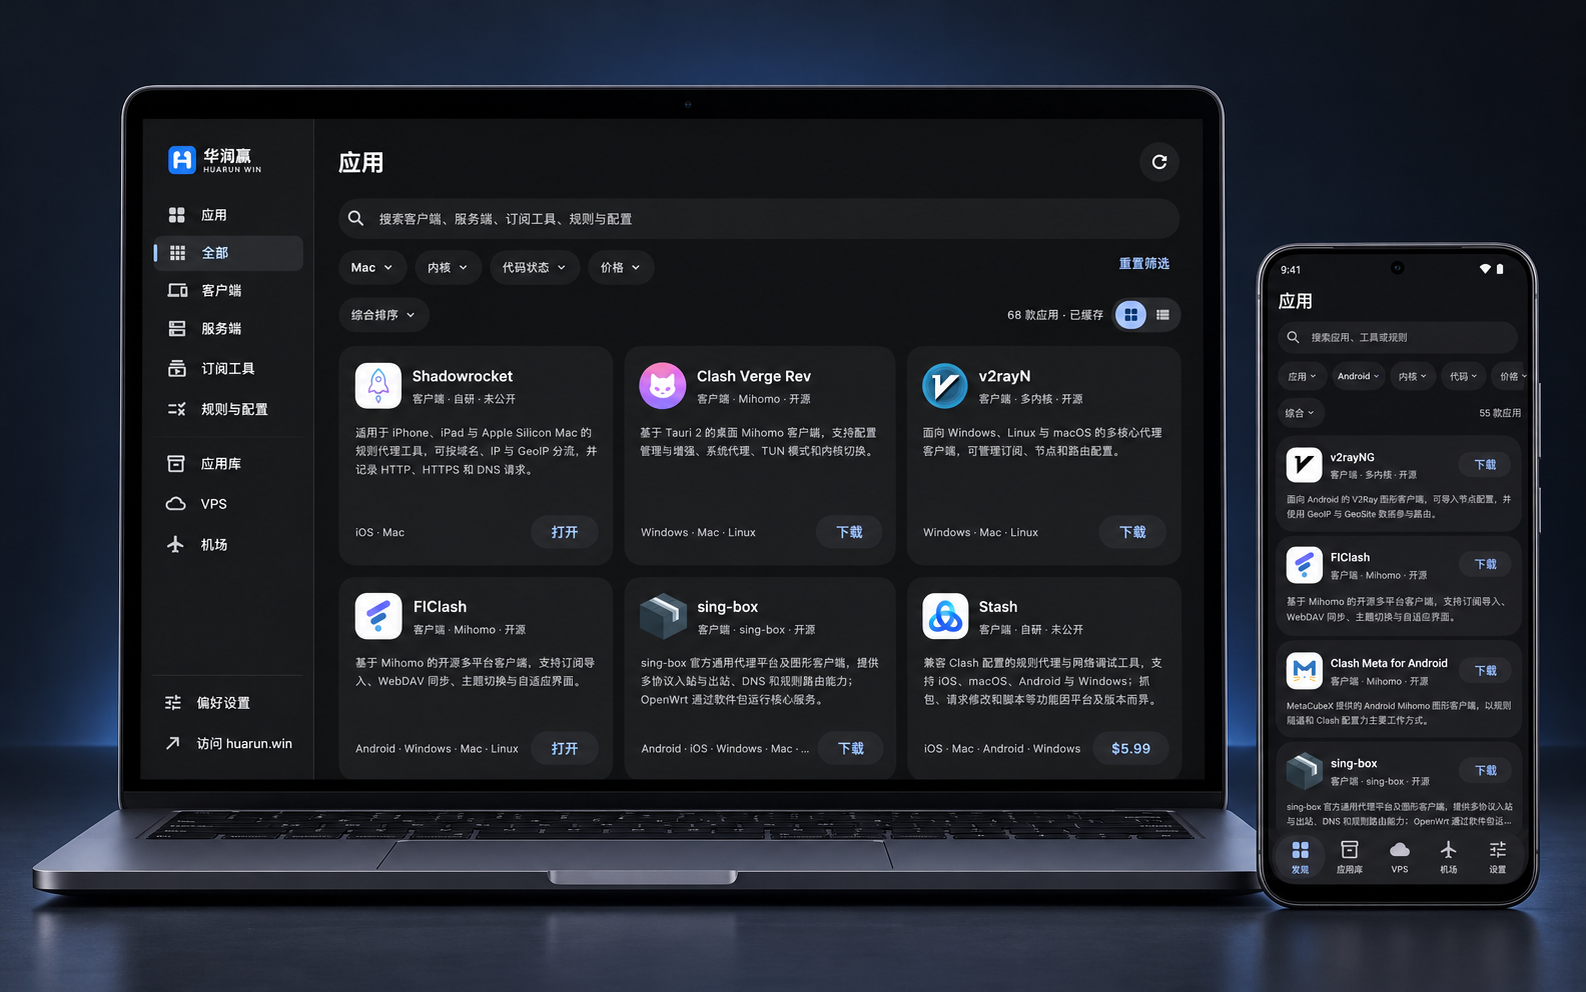
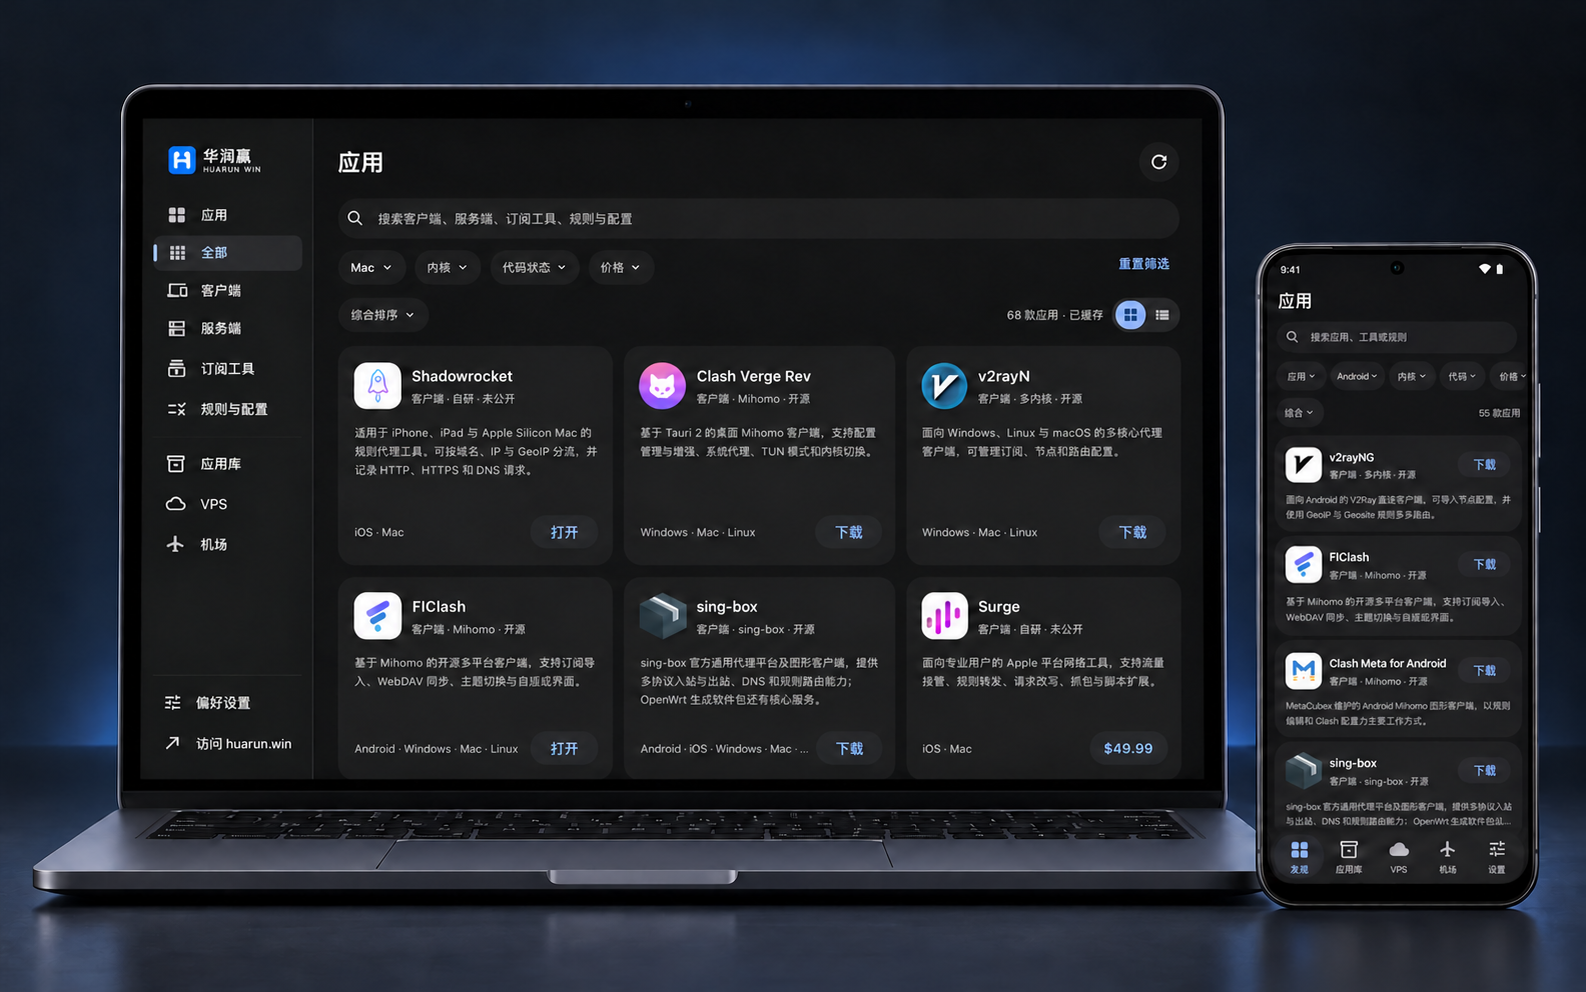
docs(readme): replace Stash preview card with Surge

diff --git a/docs/images/README.md b/docs/images/README.md
@@ -13,6 +13,8 @@
 
 2026-10-20 以本项目实际运行的 macOS 与 Android 应用目录截图、现有品牌图标为输入，使用内置 imagegen 生成设备外框、背景与展示构图。画面为产品展示图；细小文字可能因生成处理与实际截图有差异，不作为运行验证、安全认证或安装包与源码一致的证明。界面内容及应用数量仅代表截图时的状态。
 
+2026-10-22 将两张预览图中笔记本右下角的 Stash 应用卡片替换为 Surge，沿用静态内容中的 Surge 图标与应用资料，其他设备、卡片和布局保持不变。
+
 布局参考 [FlClash 中文 README](https://github.com/chen08209/FlClash/blob/main/README_zh_CN.md) 的居中介绍和桌面／手机组合形式，未将其图片用作生成输入。图中的第三方应用图标与名称保留各自权利，项目品牌与许可见根目录 [LICENSE](../../LICENSE)。
 
 ## 生成提示词
